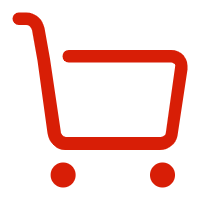
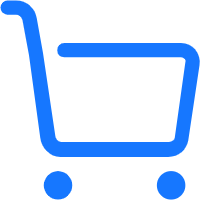
引入swiper插件

diff --git a/src/components/home/Header.vue b/src/components/home/Header.vue
@@ -12,20 +12,31 @@
         </div>
 
         <ly-tabs v-model="value">
-            <ly-tab-item name="1" title="选项卡1" />
-            <ly-tab-item name="2" title="选项卡2" />
+            <ly-tab-item name="1" title="推荐" />
+            <ly-tab-item name="2" title="红茶" />
+            <ly-tab-item name="3" title="绿茶" />
+            <ly-tab-item name="4" title="铁观音" />
+            <ly-tab-item name="5" title="花茶" />
+            <ly-tab-item name="6" title="普洱茶" />
+            <ly-tab-item name="7" title="茶具" />
+            <ly-tab-item name="8" title="其他" />
         </ly-tabs>
+        <section>
+            <Swiper></Swiper>
+        </section>
     </header>
 </template>
 
 <script>
+import Swiper from './Swiper.vue';
+
 export default {
-  data() {
-    return  {
-        value: '1',
-        activeColor :'#A62E29',
-    }
-  }
+    data() {
+        return {
+            value: "1",
+        };
+    },
+    components: { Swiper }
 }
 
 </script>
@@ -33,7 +44,7 @@ export default {
 
 
 <style lang="scss" scoped>
-$background-color:#A62E29;
+$background-color:rgb(22, 119, 255);
 header {
     background-color:$background-color;
     display: flex;

diff --git a/src/components/home/Swiper.vue b/src/components/home/Swiper.vue
@@ -1,0 +1,30 @@
+<template>
+    <div class="swiper">
+        <swiper :modules="modules" :pagination="{ clickable: true }">
+            <swiper-slide>Slide 1</swiper-slide>
+            <swiper-slide>Slide 2</swiper-slide>
+            <swiper-slide>Slide 3</swiper-slide>
+        </swiper>
+    </div>
+</template>
+
+<script>
+import 'swiper/dist/css/swiper.css'
+
+import { swiper, swiperSlide } from 'vue-awesome-swiper'
+
+export default {
+  components: {
+    swiper,
+    swiperSlide
+  }
+}
+</script>
+
+
+
+<style lang="scss" scoped>
+.swiper{
+    margin-top:200px;
+}
+</style>

diff --git a/src/main.js b/src/main.js
@@ -3,6 +3,7 @@ import App from "./App.vue";
 import router from "./router";
 import store from "./store";
 import LyTab from 'ly-tab';
+import Swiper from '@/components/home/Swiper.vue'
 
 //公共css文件
 import './assets/css/commit.css'
@@ -10,6 +11,7 @@ import './assets/fonts/iconfont.css'
 
 Vue.config.productionTip = false;
 Vue.use(LyTab);
+Vue.use(Swiper);
 
 new Vue({
   router,

diff --git a/src/views/Home.vue b/src/views/Home.vue
@@ -13,11 +13,15 @@
 import Tabbar from '@/components/common/Tabbar.vue'
 import Header from '@/components/home/Header.vue'
 
+
+
+
 export default {
   name: "Home",
   components:{
     Tabbar,
-    Header
+    Header,
+  
   }
 };
 </script>

diff --git a/src/components/common/Tabbar.vue b/src/components/common/Tabbar.vue
@@ -93,7 +93,7 @@
 }
 
 .selected{
-    color:red
+    color:rgb(22, 119, 255)
 }
    
     
